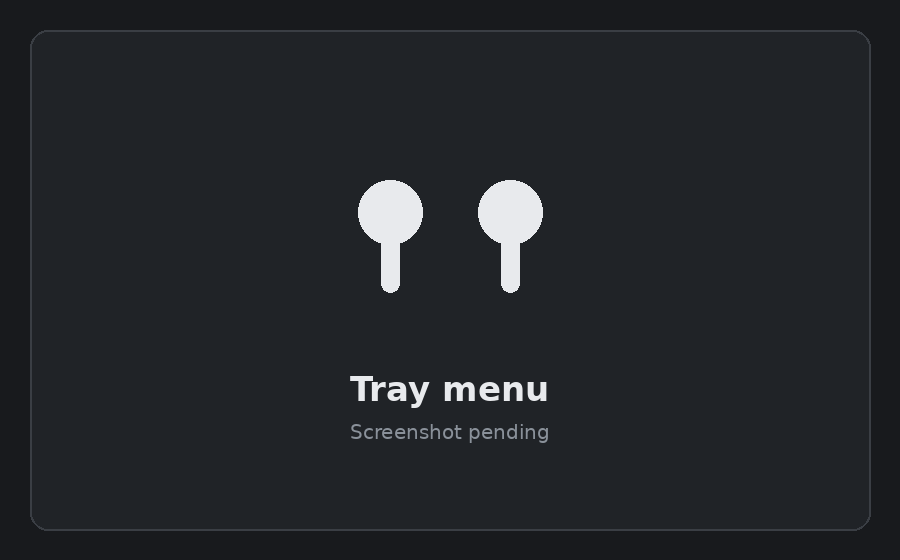
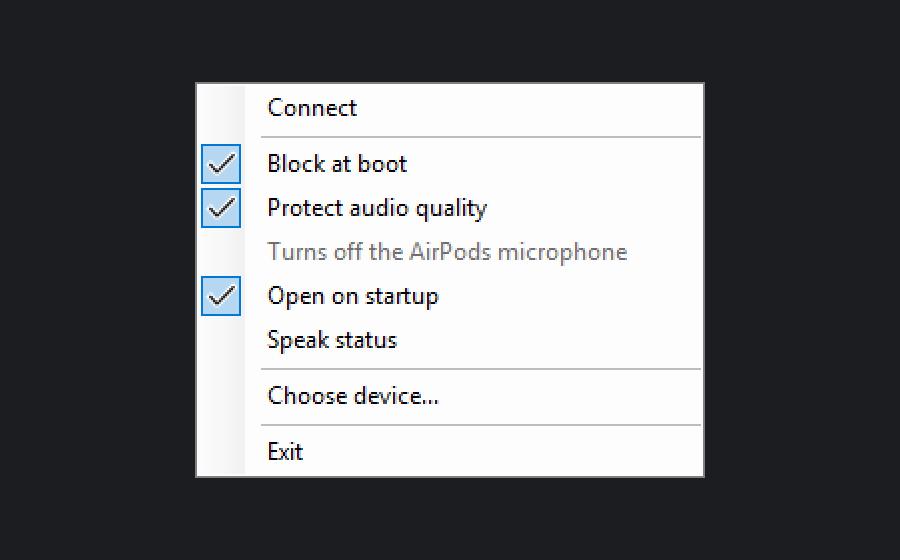
Add the documentation pictures: the card in three states, the menu and the hero
The pictures in the README and docs/overview.md come from the application's own card, menu and icon code, through two tests that write the files only when EARSHOT_DOC_IMAGE_DIR names a folder. Each caption says what its picture shows.

diff --git a/tests/Earshot.Tests/Phase5/DocumentationSceneImageTests.cs b/tests/Earshot.Tests/Phase5/DocumentationSceneImageTests.cs
@@ -1,0 +1,207 @@
+using System.Drawing;
+using System.Drawing.Drawing2D;
+using System.Drawing.Imaging;
+using System.Windows.Forms;
+using Earshot.Contracts;
+using Earshot.Icons;
+using Earshot.Popup;
+using Earshot.Tests.Phase1;
+using Earshot.Tray;
+using Microsoft.VisualStudio.TestTools.UnitTesting;
+
+namespace Earshot.Tests.Phase5;
+
+// Renders the other two documentation pictures from the application's own code.
+//
+//   tray-menu.png  TrayMenu, built from a MenuState that MenuModel.Build made, shown on a private
+//                  desktop so nothing appears on screen, and rendered with DrawToBitmap.
+//   hero.png       ConnectCard and the tray glyph from EarbudGlyph, placed on a taskbar strip.
+//
+// Files are written only when EARSHOT_DOC_IMAGE_DIR names a folder.
+[TestClass]
+public sealed class DocumentationSceneImageTests
+{
+    private const int WideEnough = 1896;
+    private static readonly Color Backdrop = Color.FromArgb(27, 29, 33);
+
+    [TestMethod]
+    public void TheMenuPictureShowsTheMenuOfASetUpPc()
+    {
+        Bitmap? rendered = null;
+        string[] texts = [];
+        try
+        {
+            CardDesktop.Run(() =>
+            {
+                MenuState state = MenuModel.Build(
+                    Phase1Fixtures.Target(ConnectionState.Disconnected, name: DocumentationCardImageTests.DeviceName),
+                    Phase1Fixtures.Block(BlockState.Blocked),
+                    Phase1Fixtures.Protection(AudioProtectionState.Protected),
+                    Phase1Fixtures.Settings(),
+                    busy: false,
+                    StartupState.On);
+
+                using var menu = new TrayMenu(() => state);
+                ContextMenuStrip strip = menu.Strip;
+                strip.Show(new Point(0, 0));
+                CardSta.PumpUntil(() => strip.Visible && strip.Width > 0, TimeSpan.FromSeconds(10));
+                Assert.IsTrue(strip.Visible, "The menu never opened on the private desktop.");
+
+                texts = menu.Items.Where(i => i.Available && i is not ToolStripSeparator).Select(i => i.Text ?? string.Empty).ToArray();
+                rendered = new Bitmap(strip.Width, strip.Height, PixelFormat.Format24bppRgb);
+                strip.DrawToBitmap(rendered, new Rectangle(Point.Empty, strip.Size));
+                strip.Close();
+            });
+
+            Assert.IsNotNull(rendered);
+            CollectionAssert.Contains(texts, "Connect", "A disconnected device's menu leads with Connect.");
+            CollectionAssert.Contains(texts, "Block at boot");
+            CollectionAssert.Contains(texts, "Exit");
+            Assert.IsFalse(texts.Any(t => t.Contains(Phase1Fixtures.AirPodsName, StringComparison.Ordinal)), "The fixture's own device name must not appear.");
+            Assert.IsTrue(HasMoreThanOneColour(rendered), "The menu rendered as one flat colour, so nothing was rendered.");
+
+            Save("tray-menu.png", () => OnABackdrop(rendered, scale: 2));
+        }
+        finally
+        {
+            rendered?.Dispose();
+        }
+    }
+
+    [TestMethod]
+    public void TheHeroPictureShowsTheIconAndTheCard()
+    {
+        CardSta.Run(() =>
+        {
+            using var card = new ConnectCard(new CapturingLog());
+            Size size = card.Prepare(new CardContent(DocumentationCardImageTests.DeviceName, TrayStatus.CardConnected), 192, CardTheme.Dark, WideEnough);
+            using var cardBitmap = new Bitmap(size.Width, size.Height, PixelFormat.Format24bppRgb);
+            card.DrawToBitmap(cardBitmap, new Rectangle(Point.Empty, size));
+            CollectionAssert.AreEqual(
+                new[] { DocumentationCardImageTests.DeviceName, TrayStatus.CardConnected },
+                card.LastPaintedText().ToArray());
+
+            const int GlyphPx = 48;
+            byte[] coverage = EarbudGlyph.Coverage(GlyphPx, GlyphState.Connected);
+            Assert.IsTrue(coverage.Any(a => a != 0), "The connected glyph drew nothing.");
+            using Bitmap glyph = EarbudGlyph.ToBitmap(coverage, GlyphPx, Color.White);
+
+            Save("hero.png", () => Hero(cardBitmap, glyph));
+        });
+    }
+
+    // 1600 by 420: a taskbar strip along the bottom, the icon ringed beside the clock area, and the
+    // card above the icon where the application puts it. The clock area carries no figures.
+    private static Bitmap Hero(Bitmap card, Bitmap glyph)
+    {
+        var picture = new Bitmap(1600, 420, PixelFormat.Format24bppRgb);
+        using Graphics g = Graphics.FromImage(picture);
+        g.SmoothingMode = SmoothingMode.AntiAlias;
+        g.InterpolationMode = InterpolationMode.HighQualityBicubic;
+        g.Clear(Backdrop);
+
+        const int BarHeight = 96;
+        var bar = new Rectangle(0, picture.Height - BarHeight, picture.Width, BarHeight);
+        using (var barBrush = new SolidBrush(Color.FromArgb(38, 41, 47)))
+        {
+            g.FillRectangle(barBrush, bar);
+        }
+
+        using (var line = new Pen(Color.FromArgb(58, 62, 70), 2f))
+        {
+            g.DrawLine(line, bar.Left, bar.Top, bar.Right, bar.Top);
+        }
+
+        // Clock and date as two plain bars.
+        using (var quiet = new SolidBrush(Color.FromArgb(120, 126, 138)))
+        {
+            using GraphicsPath time = Rounded(new Rectangle(picture.Width - 190, bar.Top + 26, 120, 14), 7);
+            using GraphicsPath date = Rounded(new Rectangle(picture.Width - 210, bar.Top + 54, 140, 14), 7);
+            g.FillPath(quiet, time);
+            g.FillPath(quiet, date);
+
+            // Two neighbouring tray items, as plain dots.
+            g.FillEllipse(quiet, picture.Width - 470, bar.Top + 36, 24, 24);
+            g.FillEllipse(quiet, picture.Width - 410, bar.Top + 36, 24, 24);
+        }
+
+        var iconAt = new Point(picture.Width - 340, bar.Top + ((BarHeight - glyph.Height) / 2));
+        g.DrawImageUnscaled(glyph, iconAt);
+        using (var ring = new Pen(Color.FromArgb(96, 165, 250), 4f))
+        {
+            g.DrawEllipse(ring, iconAt.X - 14, iconAt.Y - 14, glyph.Width + 28, glyph.Height + 28);
+        }
+
+        var cardAt = new Rectangle(picture.Width - 60 - card.Width, bar.Top - 40 - card.Height, card.Width, card.Height);
+        using GraphicsPath corners = Rounded(cardAt, 16);
+        g.SetClip(corners);
+        g.DrawImageUnscaled(card, cardAt.Location);
+        g.ResetClip();
+        using var edge = new Pen(Color.FromArgb(70, 74, 82), 2f);
+        g.DrawPath(edge, corners);
+        return picture;
+    }
+
+    // The 900 by 560 frame the other documentation pictures use, with the rendered window centred.
+    private static Bitmap OnABackdrop(Bitmap window, int scale)
+    {
+        var picture = new Bitmap(900, 560, PixelFormat.Format24bppRgb);
+        using Graphics g = Graphics.FromImage(picture);
+        g.InterpolationMode = InterpolationMode.NearestNeighbor;
+        g.PixelOffsetMode = PixelOffsetMode.Half;
+        g.Clear(Backdrop);
+
+        int width = window.Width * scale;
+        int height = window.Height * scale;
+        if (height > picture.Height - 40)
+        {
+            width = window.Width;
+            height = window.Height;
+        }
+
+        g.DrawImage(window, new Rectangle((picture.Width - width) / 2, (picture.Height - height) / 2, width, height));
+        return picture;
+    }
+
+    private static void Save(string fileName, Func<Bitmap> picture)
+    {
+        string? folder = Environment.GetEnvironmentVariable("EARSHOT_DOC_IMAGE_DIR");
+        if (string.IsNullOrWhiteSpace(folder))
+        {
+            return;
+        }
+
+        Assert.IsTrue(Directory.Exists(folder), "EARSHOT_DOC_IMAGE_DIR names a folder that is not there: " + folder);
+        using Bitmap made = picture();
+        made.Save(Path.Combine(folder, fileName), ImageFormat.Png);
+    }
+
+    private static bool HasMoreThanOneColour(Bitmap bitmap)
+    {
+        Color first = bitmap.GetPixel(0, 0);
+        for (int y = 0; y < bitmap.Height; y += 2)
+        {
+            for (int x = 0; x < bitmap.Width; x += 2)
+            {
+                if (bitmap.GetPixel(x, y) != first)
+                {
+                    return true;
+                }
+            }
+        }
+
+        return false;
+    }
+
+    private static GraphicsPath Rounded(Rectangle bounds, int radius)
+    {
+        int d = radius * 2;
+        var path = new GraphicsPath();
+        path.AddArc(bounds.Left, bounds.Top, d, d, 180, 90);
+        path.AddArc(bounds.Right - d, bounds.Top, d, d, 270, 90);
+        path.AddArc(bounds.Right - d, bounds.Bottom - d, d, d, 0, 90);
+        path.AddArc(bounds.Left, bounds.Bottom - d, d, d, 90, 90);
+        path.CloseFigure();
+        return path;
+    }
+}

diff --git a/tests/Earshot.Tests/Phase5/DocumentationCardImageTests.cs b/tests/Earshot.Tests/Phase5/DocumentationCardImageTests.cs
@@ -1,0 +1,90 @@
+using System.Drawing;
+using System.Drawing.Drawing2D;
+using System.Drawing.Imaging;
+using Earshot.App;
+using Earshot.Contracts;
+using Earshot.Popup;
+using Earshot.Tray;
+using Microsoft.VisualStudio.TestTools.UnitTesting;
+
+namespace Earshot.Tests.Phase5;
+
+// Renders the card pictures used in docs\overview.md from ConnectCard itself, one per status line.
+// The test always renders and checks the card. It writes the files only when
+// EARSHOT_DOC_IMAGE_DIR names a folder, so an ordinary test run changes nothing on disk:
+//
+//   $env:EARSHOT_DOC_IMAGE_DIR = "docs\images"
+//   dotnet test --filter FullyQualifiedName~DocumentationCardImageTests
+[TestClass]
+public sealed class DocumentationCardImageTests
+{
+    internal const string DeviceName = "AirPods Pro";
+    private const int WideEnough = 1896;
+
+    // Twice the base 96, so the text is crisp when the page shows the picture at half size.
+    private const int Dpi = 192;
+
+    [TestMethod]
+    [DataRow("connect-card.png", TrayStatus.CardConnected)]
+    [DataRow("boot-block.png", TrayStatus.CardBlockedAtBoot)]
+    [DataRow("audio-protection.png", TrayStatus.MicrophoneNotice)]
+    public void TheDocumentationPictureIsTheRealCardWithADeviceName(string fileName, string status)
+    {
+        CardSta.Run(() =>
+        {
+            using var card = new ConnectCard(new CapturingLog());
+            var content = new CardContent(DeviceName, status);
+            Size size = card.Prepare(content, Dpi, CardTheme.Dark, WideEnough);
+
+            using var rendered = new Bitmap(size.Width, size.Height, PixelFormat.Format24bppRgb);
+            card.DrawToBitmap(rendered, new Rectangle(Point.Empty, size));
+
+            CollectionAssert.AreEqual(
+                new[] { DeviceName, status },
+                card.LastPaintedText().ToArray(),
+                "The picture shows the name and the status line, and nothing else.");
+
+            string? folder = Environment.GetEnvironmentVariable("EARSHOT_DOC_IMAGE_DIR");
+            if (string.IsNullOrWhiteSpace(folder))
+            {
+                return;
+            }
+
+            Assert.IsTrue(Directory.Exists(folder), "EARSHOT_DOC_IMAGE_DIR names a folder that is not there: " + folder);
+            using Bitmap picture = OnABackdrop(rendered);
+            picture.Save(Path.Combine(folder, fileName), ImageFormat.Png);
+        });
+    }
+
+    // The 900 by 560 frame the documentation pictures use, with the card centred at its rendered
+    // size. Windows rounds the card's corners on screen; DrawToBitmap does not, so they are
+    // clipped here to match.
+    private static Bitmap OnABackdrop(Bitmap card)
+    {
+        var picture = new Bitmap(900, 560, PixelFormat.Format24bppRgb);
+        using Graphics graphics = Graphics.FromImage(picture);
+        graphics.SmoothingMode = SmoothingMode.AntiAlias;
+        graphics.Clear(Color.FromArgb(27, 29, 33));
+
+        var where = new Rectangle((picture.Width - card.Width) / 2, (picture.Height - card.Height) / 2, card.Width, card.Height);
+        using GraphicsPath corners = Rounded(where, 16);
+        graphics.SetClip(corners);
+        graphics.DrawImageUnscaled(card, where.Location);
+        graphics.ResetClip();
+        using var edge = new Pen(Color.FromArgb(70, 74, 82), 2f);
+        graphics.DrawPath(edge, corners);
+        return picture;
+    }
+
+    private static GraphicsPath Rounded(Rectangle bounds, int radius)
+    {
+        int d = radius * 2;
+        var path = new GraphicsPath();
+        path.AddArc(bounds.Left, bounds.Top, d, d, 180, 90);
+        path.AddArc(bounds.Right - d, bounds.Top, d, d, 270, 90);
+        path.AddArc(bounds.Right - d, bounds.Bottom - d, d, d, 0, 90);
+        path.AddArc(bounds.Left, bounds.Bottom - d, d, d, 90, 90);
+        path.CloseFigure();
+        return path;
+    }
+}

diff --git a/docs/overview.md b/docs/overview.md
@@ -38,9 +38,9 @@ likewise `disconnected`, `blocked` or `not found`. If Earshot cannot read the
 audio devices at all it says `unknown`, rather than guessing at one of the
 four states.
 
-<img src="images/tray-menu.png" alt="The Earshot tray icon and its right-click menu" width="360" align="right">
+<img src="images/tray-menu.png" alt="Earshot's right-click menu on a set up PC with the AirPods disconnected" width="360" align="right">
 
-<p align="center"><i>Placeholder art, not a screenshot. Pending a real capture of the menu open.</i></p>
+<p align="center"><i>The right-click menu on a PC that is set up, with the AirPods disconnected.</i></p>
 
 ## The right-click menu
 
@@ -75,11 +75,11 @@ were doing. If the AirPods do not arrive the ordinary way, the card says so
 honestly, for instance "Trying another way" while Earshot works around a
 driver refusal.
 
-<p align="center"><i>Placeholder art, not a screenshot. Pending a real capture of the card in view.</i></p>
+<p align="center"><i>The card Earshot shows near the tray when the AirPods connect.</i></p>
 
 <br clear="all">
 
-<img src="images/boot-block.png" alt="Placeholder image, standing in for a diagram of the device node being disabled at boot" width="360" align="right">
+<img src="images/boot-block.png" alt="The card Earshot shows when the AirPods are blocked at boot" width="360" align="right">
 
 ## The boot block
 
@@ -88,11 +88,11 @@ they stop being used, and stay disabled through a restart. Nothing has to run
 at shutdown for that to hold; staying disabled is the steady state, and it is
 what stops Windows paging them at the next boot.
 
-<p align="center"><i>Placeholder art, not a screenshot. Pending a real capture of this state.</i></p>
+<p align="center"><i>The card Earshot shows when the AirPods are blocked at boot.</i></p>
 
 <br clear="all">
 
-<img src="images/audio-protection.png" alt="Placeholder image, standing in for a diagram of the Hands-Free profile being turned off" width="360" align="right">
+<img src="images/audio-protection.png" alt="The card Earshot shows when audio quality protection is switched on" width="360" align="right">
 
 ## Audio quality protection
 
@@ -111,7 +111,7 @@ again on this PC while that runs. If putting the protection back fails, the
 card says "Connected, but audio quality protection did not apply." and the
 microphone stays available until the next connect fixes it.
 
-<p align="center"><i>Placeholder art, not a screenshot. Pending a real capture of this state.</i></p>
+<p align="center"><i>The notice Earshot shows when audio quality protection is switched on.</i></p>
 
 <br clear="all">
 

diff --git a/README.md b/README.md
@@ -8,9 +8,9 @@
 
 </div>
 
-<p align="center"><img src="docs/images/hero.png" alt="The Earshot tray icon" width="100%"></p>
+<p align="center"><img src="docs/images/hero.png" alt="Earshot's icon in the tray, with its card above it saying Connected" width="100%"></p>
 
-<p align="center"><i>Placeholder art, not a screenshot. Pending a real capture of the tray in use.</i></p>
+<p align="center"><i>Earshot in the tray: one click, and a small card says what happened.</i></p>
 
 Muawiyah Jahanzaib built Earshot because Windows pages every paired Bluetooth
 device when the PC powers on, including AirPods that were left on a phone in
